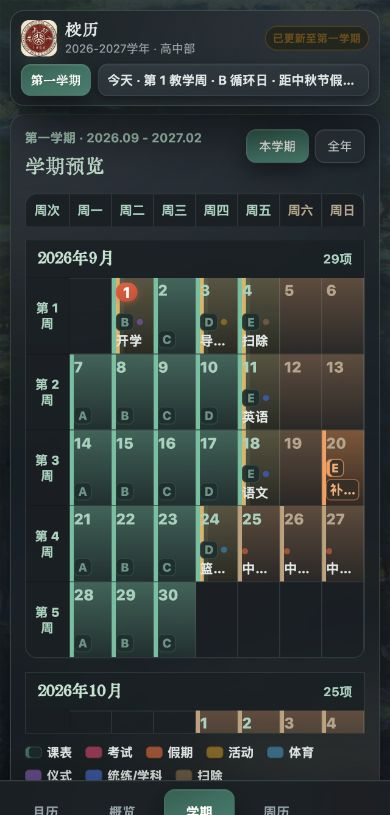
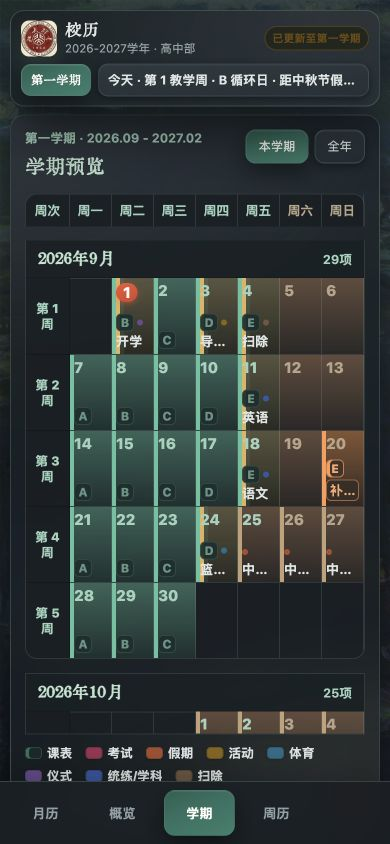
docs: record calendar frontend release

diff --git a/docs/OPERATIONS.md b/docs/OPERATIONS.md
@@ -1,6 +1,6 @@
 # 校历 operations
 
-Last normalized: 2026-08-31 PDT
+Last normalized: 2026-09-01 PDT
 Owner: suen
 Lifecycle: active
 Data class: anonymous_aggregate
@@ -10,7 +10,7 @@ Documentation status: generated from local source, Git/GitHub audit, project cat
 
 - Canonical local path: `/Users/ylsuen/CF/sites/tools/calendar` (`/Users/ylsuen/CF/calendar` remains a compatibility symlink)
 - Git authority: `ieduer/bdfz-calendar`
-- Current production source: `main` / `f6d299379e0dfd4578735a4d8034f04a7c079a5a`
+- Current production source: `main` / `7800031f059006ce0cc5ef89f702e1dce1c03079`
 - Runtime config: `calendar/wrangler.toml` (name `bdfz-calendar`)
 - Current state: [PROJECT_STATE.md](../PROJECT_STATE.md)
 - Workspace resource routing: [project resource index](../../reports/operations/project_resource_index.md)
@@ -35,7 +35,7 @@ Live Cloudflare matching is metadata-only and does not prove application health:
 
 | Resource | Live type | Readback | Detail |
 | --- | --- | --- | --- |
-| `bdfz-calendar` | Pages | verified 2026-08-31 | production branch `main`; canonical deployment `2c6c2d44-fb10-48ab-896f-c3a752af3a63`; source `f6d2993` |
+| `bdfz-calendar` | Pages | verified 2026-09-01 | production branch `main`; canonical deployment `7d53cf5e-1a2d-4145-8a7d-634f7ac854b3`; source `7800031` |
 
 ## Authority and dependencies
 
@@ -54,10 +54,10 @@ Live Cloudflare matching is metadata-only and does not prove application health:
 - External/local build inputs, archived paths, receipts, retention, and hydrate commands not stated below are `review_required` and block deletion.
 
 Catalog backup evidence:
-- Cloudflare immutable Pages deployments: current=2c6c2d44-fb10-48ab-896f-c3a752af3a63, previous accepted=82770eea-a79a-4d18-9b0e-ca5cb61b1044
+- Cloudflare immutable Pages deployments: current=`7d53cf5e-1a2d-4145-8a7d-634f7ac854b3`, immediate previous accepted=`2c6c2d44-fb10-48ab-896f-c3a752af3a63`, secondary previous accepted=`82770eea-a79a-4d18-9b0e-ca5cb61b1044`
 
 Catalog restore evidence:
-- restore code/assets by promoting production deployment `82770eea-a79a-4d18-9b0e-ca5cb61b1044`, then verify the custom domain and prior feed
+- restore the immediately previous accepted code/assets by promoting production deployment `2c6c2d44-fb10-48ab-896f-c3a752af3a63`, then verify the custom domain and prior feed; `82770eea-a79a-4d18-9b0e-ca5cb61b1044` remains the secondary rollback anchor
 
 Before deleting any local resource, satisfy the workspace path-preserving archive, remote readback, isolated restore, receipt, handbook, and project-state gates.
 
@@ -98,7 +98,7 @@ Catalog deploy commands (not authorization; fresh preflight remains mandatory):
 - npm --prefix "/Users/ylsuen/CF/calendar" run deploy
 
 Rollback/failback authorities:
-- Cloudflare Pages deployment `82770eea-a79a-4d18-9b0e-ca5cb61b1044` is the immediate immutable rollback anchor. Use the authenticated Pages rollback/promotion workflow; never put credentials in this file.
+- Cloudflare Pages deployment `2c6c2d44-fb10-48ab-896f-c3a752af3a63` is the immediate immutable rollback anchor; `82770eea-a79a-4d18-9b0e-ca5cb61b1044` is the secondary anchor. Use the authenticated Pages rollback/promotion workflow; never put credentials in this file.
 
 For data-backed projects, immutable code rollback does not restore D1/KV/R2/DO/Queue state. Use backup/restore or backward-compatible forward-fix procedures verified for the exact resource.
 
@@ -118,7 +118,7 @@ For data-backed projects, immutable code rollback does not restore D1/KV/R2/DO/Q
 5. Dependency regression: matrix fan-out, shared hubs, clone family, App/VPS as applicable.
 6. Backup/restore: catalog evidence above; missing exact evidence is blocking for writes/deletion.
 7. Rollback/failback: catalog authority above, refreshed live before release.
-8. Last verified: 2026-08-31 PDT against `https://cal.bdfz.net/` and `https://cal.bdfz.net/feeds/2026-2027-high-all.ics` in desktop 1728px and mobile 390px browser views.
+8. Last verified: 2026-09-01 PDT against `https://cal.bdfz.net/` on production deployment `7d53cf5e-1a2d-4145-8a7d-634f7ac854b3`; Browser acceptance covered 360/390/430px tab hit-testing, the 390×844 day sheet, 1440×900 desktop, light/dark modes, console errors, asset hashes, and horizontal overflow.
 
 ## 2026-2027 first-semester release receipt
 
@@ -130,6 +130,17 @@ For data-backed projects, immutable code rollback does not restore D1/KV/R2/DO/Q
 - Capability fit: `no-new-capability`. The site remains a static Vite/React Pages direct upload with no new Cloudflare runtime, binding, data store, identity surface, shared-hub contract, or cost class.
 - Fan-out: leaf-only; User Center, APIS, nav, Pulse, DNS, Companion, VPS, and other sites are `verified_no_change` by scope and source diff.
 - Source/resource disposition: Git-tracked source and public source notes are `retain_hot`; no private Yuque raw extract was created; task-local build and browser-validation derivatives are `remove` at closeout.
+
+## 2026-09-01 frontend clarity release receipt
+
[1 lines of base64/hex data omitted]
+- Source and deployment: Git/GitHub `main` source `7800031f059006ce0cc5ef89f702e1dce1c03079`; Cloudflare Pages production deployment `7d53cf5e-1a2d-4145-8a7d-634f7ac854b3`; immediate rollback `2c6c2d44-fb10-48ab-896f-c3a752af3a63`.
+- P0 browser acceptance on the custom domain: at 360, 390, and 430 CSS px, every mobile tab center returned its own `.mobile-tabbar button` from `elementFromPoint`; at 390×844 the day sheet panel returned `bottom=756 <= innerHeight=844`, and the first list-row center returned a descendant of `.day-sheet-list li:first-child`.
+- Readability acceptance: term preview hierarchy returned heading/date/event sizes `24px / 16px / 13px`; legend and footer returned `12.5px`; months are full-width rows, teaching weeks occupy the left column, cycle chips show A–F with accessible explanations, adjusted school days have explicit badges, and exam weeks explain absent cycle schedules.
+- Viewport acceptance: 390×844 and 1440×900 both passed light/dark Browser screenshots, zero console errors, and no horizontal overflow. Exact evidence is retained under `docs/evidence/2026-09-01-calendar-ui/`.
+- Build/data acceptance: `npm run build` passed; fresh `npm run audit:data` returned 5 calendars, 511 events, 0 errors, and 6 warnings. This preserves the actual 2026-09-01 time-dependent baseline; the user's stale expectation of 5 was not forced by changing calendar data.
+- Capability fit: `no-new-capability`. This remains the same static Vite/React Pages direct-upload architecture with no new binding, runtime, datastore, identity, shared-hub contract, or cost class.
+- Resource disposition: Git source and the four release screenshots are `retain_hot`; ignored `dist`, generated feeds, and TypeScript build information remain reproducible project-local derivatives; task-local runtime artifacts are removed at closeout.
 
 ## Synchronized documentation and handoff
 

diff --git a/PROJECT_STATE.md b/PROJECT_STATE.md
@@ -1,13 +1,13 @@
 # Project State
 
-Last updated: 2026-08-31 PDT
-Current production version: f6d299379e0dfd4578735a4d8034f04a7c079a5a
-Current objective: serve the published 2026-2027 high-school first semester accurately and keep source-marked gaps explicit
-Completed work: extracted authenticated Yuque draft 71 without persisting private raw data; added 34 important events, 91 cycle days, 3 undated notices, the new ICS feed, high-contrast category labels, responsive calendar views, and live desktop/mobile acceptance
+Last updated: 2026-09-01 PDT
+Current production version: 7800031f059006ce0cc5ef89f702e1dce1c03079
+Current objective: serve the published 2026-2027 high-school first semester accurately with a mobile-first, immediately readable calendar while keeping source-marked gaps explicit
+Completed work: extracted authenticated Yuque draft 71 without persisting private raw data; added 34 important events, 91 cycle days, 3 undated notices, and the new ICS feed; released the frontend-only mobile tab and day-sheet repairs, compact current-status header, teaching-week column, A–F cycle chips, adjusted-school-day and exam-week explanations, three-level type hierarchy, event titles in mobile cells, weekly-view demotion, and stronger dark day-state separation; live desktop/mobile light/dark Browser acceptance passed
 Pending work: add the second semester and other divisions only when their official sources are published; rerun the same audit, feed, desktop, and mobile verification gates
 Known problems: the supplied Yuque source contains only the high-school first semester; information technology, general technology, and academic-level qualification exam dates remain officially pending
 Next recommended task: monitor the same Yuque authority for a second-semester or pending-date update; do not infer dates between releases
-Deployment status: accepted on Cloudflare Pages deployment 2c6c2d44-fb10-48ab-896f-c3a752af3a63; custom-domain HTML and ICS return 200 with the new year; desktop 1728px and mobile 390px Browser checks passed with no console errors or horizontal overflow
-Rollback anchor: Cloudflare Pages deployment 82770eea-a79a-4d18-9b0e-ca5cb61b1044 (previous accepted e7b6701 release)
+Deployment status: accepted on Cloudflare Pages deployment 7d53cf5e-1a2d-4145-8a7d-634f7ac854b3 from source 7800031; the custom domain loaded assets index-KVTZTNSU.js and index-DibKdf1C.css; 360/390/430px mobile hit tests, 390×844 day-sheet geometry, 1440×900 desktop, light/dark modes, zero console errors, and zero horizontal overflow all passed
+Rollback anchor: immediate Cloudflare Pages deployment 2c6c2d44-fb10-48ab-896f-c3a752af3a63 (source f6d2993); secondary anchor 82770eea-a79a-4d18-9b0e-ca5cb61b1044
 Operations authority: /Users/ylsuen/CF/sites/tools/calendar/docs/OPERATIONS.md
 Ownership status: release complete after task-runtime cleanup and action-log closeout; no ongoing production ownership is implied
